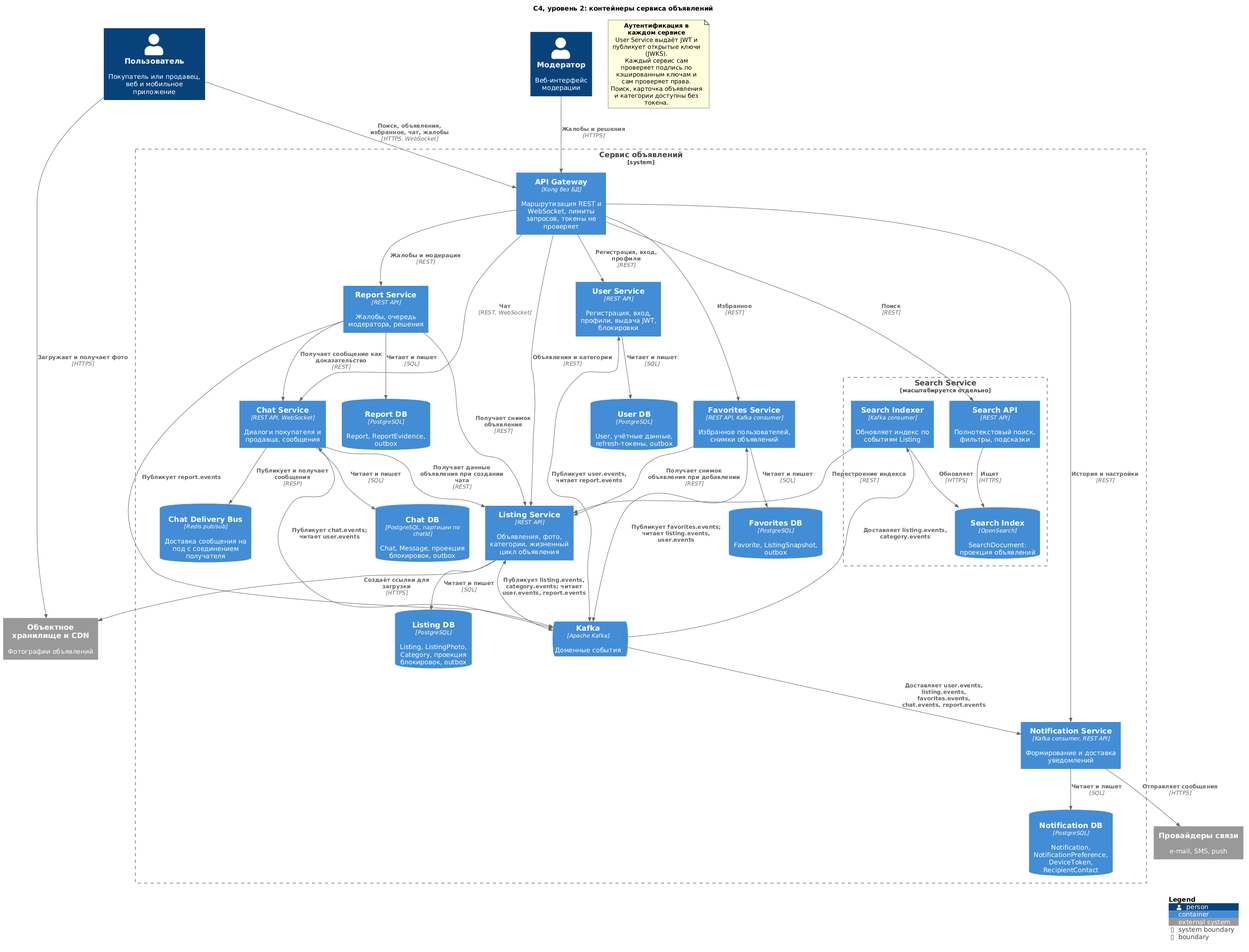
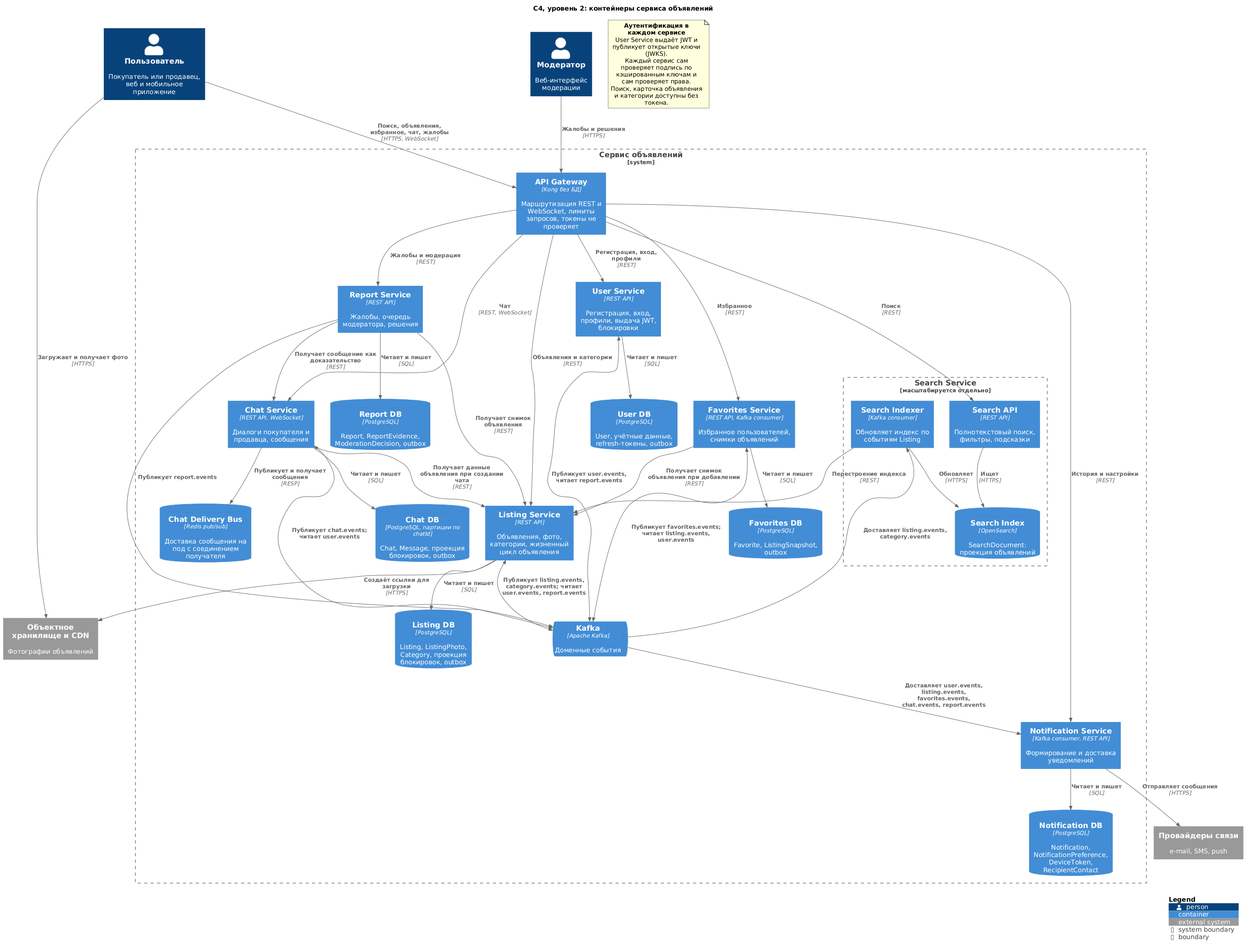
Обновлены документы и диаграммы

Changed region(s): [[0.1551, 0.3099, 0.3722, 0.4959], [0.2171, 0.4959, 0.2482, 0.5269]]

diff --git a/MA_1_lab/README.md b/MA_1_lab/README.md
@@ -13,6 +13,12 @@
 
 Сборка картинок: `plantuml -charset UTF-8 -tpng diagrams/*.puml`
 
+![C4, системный контекст](diagrams/c4-context.png)
+
+![C4, контейнеры](diagrams/c4-container.png)
+
+![C4, развёртывание](diagrams/c4-deployment.png)
+
 ## 1. Исходные данные и допущения
 
 Из задания: 5 млн, 5 000 RPS, 3 команды разработки. Ограничения: явное владение данными, независимое развёртывание, изоляция отказов, отдельное масштабирование поиска.
@@ -32,7 +38,8 @@
 | Операция | Сервис | RPS | Основание |
 |---|---|---:|---|
 | Поиск и выдача по категориям | Search | 2 500 | основной сценарий: лента, фильтры, текстовый поиск |
-| Карточка объявления, категории, свои объявления | Listing | 1 200 | около 30 RPS из них запись |
+| Карточка объявления и категории (публичные) | Listing | 1 000 | без токена, кэш на CDN |
+| Свои объявления и запись (создание, публикация, правки, ссылки на фото) | Listing | 200 | запись около 135 RPS, из них около 95 ссылки на фото (12 объявлений/с × 8 фото) |
 | Отправка сообщений и история | Chat | 500 | доставка по WebSocket в RPS не входит |
 | Избранное | Favorites | 300 | отметки в выдаче, список избранного |
 | Вход, обновление токенов, профили | User | 250 | |
@@ -40,14 +47,16 @@
 | Жалобы и очередь модератора | Report | 50 | |
 | **Итого** | | **5 000** | |
 
-Главный вывод: поиск даёт около 50 % запросов, а вместе с чтением карточек около 74 %. Это чтение каталога, которое не требует токена и не зависит от остальных сервисов, поэтому поиск нужно масштабировать и изолировать отдельно.
+Проверка правдоподобия: 5 000 RPS в пик при отношении пика к среднему 10 дают в среднем 500 RPS, то есть 43 млн запросов в сутки. На 500 тыс. активных пользователей это около 86 запросов на пользователя в день (поиск около 43, карточки около 20, чат около 9, избранное около 5, вход и профили около 4, уведомления около 3,5, жалобы меньше 1).
+
+Главный вывод: поиск даёт около 50 % запросов, а вместе с публичным чтением карточек около 70 %. Это чтение каталога, которое не требует токена и не зависит от остальных сервисов, поэтому поиск нужно масштабировать и изолировать отдельно.
 
 Объём данных:
 
 - **Фотографии:** 3 млн × 8 × 300 КБ ≈ 7 ТБ в объектном хранилище, раздаются через CDN. Это самый большой объём в системе.
-- **Поисковый индекс:** 3 млн × 3 КБ ≈ 10 ГБ, с репликами несколько десятков ГБ. Индекс небольшой, поэтому узкое место поиска — RPS, а не объём.
-- **Сообщения:** 3 млн × 300 Б ≈ 1 ГБ в сутки, около 330 ГБ в год.
-- **Уведомления:** около 1,5 млн в сутки, история хранится 90 дней.
+- **Поисковый индекс:** 3 млн × 3 КБ ≈ 10 ГБ, около 10 ГБ на реплику, при 10 репликах около 100 ГБ суммарно. Индекс небольшой, поэтому узкое место поиска — RPS, а не объём.
+- **Сообщения:** 3 млн × 300 Б ≈ 0,9 ГБ в сутки, около 330 ГБ в год сырых данных. С индексами (примерно ×2) и тремя копиями (лидер и 2 реплики) это около 2 ТБ на диске в год.
+- **Уведомления:** около 1,5 млн в сутки (около 17 в секунду в среднем), история хранится 90 дней. Состав (допущение): 0,9 млн push по сообщениям офлайн-получателям (30 % от 3 млн), 0,1 млн об истечении объявлений, 0,3 млн об изменении цены и статуса избранного, 0,2 млн прочие (жалобы, блокировки, регистрации).
 
 ## 2. Bounded contexts
 
@@ -71,6 +80,8 @@
 ![Context Map](diagrams/context-map.png)
 
 Исходник: [diagrams/context-map.puml](diagrams/context-map.puml).
+
+Стрелки на диаграмме идут от upstream к downstream. Сплошная стрелка — синхронный REST (данные запрашивает downstream), пунктирная — событие Kafka.
 
 | Upstream | Downstream | Паттерн | Механизм | Назначение |
 |---|---|---|---|---|
@@ -108,7 +119,7 @@
 
 - User Service выдаёт JWT: access-токен на 15 минут и refresh-токен. Открытые ключи публикуются по JWKS.
 - Сервис проверяет подпись по ключам, которые кэширует у себя. К User Service на каждый запрос он не обращается, поэтому его сбой не останавливает пользователей с действующим токеном.
-- Поиск, карточка объявления и категории доступны без токена. Это около 74 % трафика, и для них User Service вообще не нужен.
+- Поиск, карточка объявления и категории доступны без токена. Это около 70 % трафика, и для них User Service вообще не нужен.
 - Права проверяет сам сервис: продавец меняет только свои объявления, участник видит только свои диалоги, очередь жалоб доступна только роли MODERATOR.
 - Внутренние REST-вызовы идут с токеном вызывающего сервиса, внутренняя сеть доверенной не считается.
 
@@ -185,14 +196,14 @@
 | Изоляция отказов | синхронные зависимости только в трёх редких сценариях и с деградацией, остальное через Kafka; см. таблицу отказов |
 | Отдельное масштабирование поиска | Search выделен в сервис с отдельным пулом узлов, тремя независимо масштабируемыми частями и своим хранилищем (раздел 8) |
 | 3 команды | 2, 3 и 2 сервиса на команду, Search и Listing у одной команды |
-| 5 000 RPS | около 74 % трафика — чтение каталога, масштабируется репликами индекса и кэшем, запись редка, нагрузка чата распределена по партициям |
+| 5 000 RPS | около 70 % трафика — чтение каталога, масштабируется репликами индекса и кэшем, запись редка, нагрузка чата распределена по партициям |
 
 ## 7. Альтернативы
 
 Подробное сравнение приведено в [ADR-001](ADR-001-decomposition.md).
 
 - **Сервис на сущность (8–9 сервисов).** Отклонена: Chat и Message нельзя разделить без потери атомарности, Category добавляет вызов в каждую публикацию, цепочки синхронных вызовов снижают доступность, а на три команды приходится по три сильно связанных сервиса.
-- **Модульный монолит и отдельный Search.** Отклонена: остальные части масштабируются только вместе, сбой любого модуля затрагивает всё, кроме поиска, у двух команд из трёх общий релиз. Это самый дешёвый вариант и разумный промежуточный этап миграции.
+- **Модульный монолит и отдельный Search.** Отклонена: остальные части масштабируются только вместе, сбой любого модуля затрагивает всё, кроме поиска, у всех трёх команд общий релиз монолита. Это самый дешёвый вариант и разумный промежуточный этап миграции.
 
 ## 8. Независимое развёртывание и масштабирование
 
@@ -217,13 +228,13 @@
 | Notification | отставание consumer group | |
 | Report | минимум | нагрузка низкая |
 
-Для OpenSearch принято допущение, что одна реплика индекса выдерживает около 500 RPS на типовых запросах. Для пика 2 500 RPS с запасом вдвое получается около 10 реплик. Число уточняется нагрузочным тестом.
+Для OpenSearch принято допущение, что одна реплика индекса выдерживает около 500 RPS на типовых запросах. Для пика 2 500 RPS с запасом вдвое получается около 10 реплик. Запас рассчитан на потерю зоны: 10 реплик по трём зонам дают 3–4 на зону, при отказе зоны остаётся 6 реплик, то есть около 3 000 RPS, что не меньше пика. Число уточняется нагрузочным тестом.
 
 Search Service можно развернуть, обновить и масштабировать, не трогая остальные сервисы: он общается с ними только через Kafka. При полной потере индекса он перестраивается из выгрузки `GET /internal/listings/export` в новый индекс с переключением алиаса, поиск при этом работает по старому.
 
 ## 9. Размещение и мониторинг
 
-Система работает в одном кластере Kubernetes с узлами в трёх зонах доступности одного региона. Минимум 2 пода каждого развёртывания, поды разнесены по зонам, поэтому отказ узла или зоны не прерывает работу. Search вынесен в отдельный пул узлов, чтобы поиск не отнимал ресурсы у остальных сервисов.
+Система работает в одном кластере Kubernetes с узлами в трёх зонах доступности одного региона. Минимум 2 пода каждого развёртывания, для Search API и шлюза минимум 3, по одному в каждой зоне (`topologySpreadConstraints`). Поды разнесены по зонам, поэтому отказ узла или зоны не прерывает работу: при потере зоны остаётся не менее двух третей подов у сервисов с тремя и более подами и хотя бы один под у остальных. Search вынесен в отдельный пул узлов, чтобы поиск не отнимал ресурсы у остальных сервисов.
 
 | Компонент | Копии | Репликация | Отказ одной зоны |
 |---|---|---|---|

diff --git a/MA_1_lab/ADR-001-decomposition.md b/MA_1_lab/ADR-001-decomposition.md
@@ -22,13 +22,13 @@
 
 Восемь сервисов по списку сущностей: User, Listing, Category, Favorite, Chat, Message, Report, Notification (поиск как девятый, если считать его отдельно).
 
-Границы очевидны. Но Chat и Message нельзя разделить без распределённой транзакции: каждое сообщение требует проверки диалога и участников. Category нужна при каждой публикации и редактировании объявления для проверки атрибутов, то есть появляется постоянный синхронный вызов Listing → Category. Цепочка из трёх сервисов с доступностью 99,9 % даёт 0,999³ ≈ 99,7 %, то есть около 26 часов простоя в год вместо 9. Восемь-девять сервисов на три команды означают по три сильно связанных сервиса на команду.
+Границы очевидны. Но Chat и Message нельзя разделить без распределённой транзакции: каждое сообщение требует проверки диалога и участников. Category нужна при каждой публикации и редактировании объявления для проверки атрибутов, то есть появляется постоянный синхронный вызов Listing → Category. Два последовательных звена с доступностью 99,9 % дают 0,999² ≈ 99,8 %, то есть около 17,5 часа простоя в год вместо 8,8 (расчёт в [README, раздел 1](README.md#1-исходные-данные-и-допущения)). Восемь-девять сервисов на три команды означают по три сильно связанных сервиса на команду.
 
 ### Альтернатива B. Модульный монолит и отдельный Search
 
 Две единицы развёртывания: монолит с модулями User, Listing, Favorites, Chat, Report, Notification и отдельный Search.
 
-Самый дешёвый вариант в эксплуатации. Сохраняются ACID-транзакции, нет саг, выполняется главное требование про отдельное масштабирование поиска. Но WebSocket-нагрузка чата и публикация объявлений масштабируются только вместе, сбой любого модуля затрагивает всё остальное, три команды остаются в общем релизе, а владение данными держится на соглашениях внутри одной БД. Требование про независимое развёртывание выполняется только для поиска.
+Самый дешёвый вариант в эксплуатации. Сохраняются ACID-транзакции, нет саг, выполняется главное требование про отдельное масштабирование поиска. Но WebSocket-нагрузка чата и публикация объявлений масштабируются только вместе, сбой любого модуля затрагивает всё остальное, все три команды выпускают свои модули одним релизом монолита, а владение данными держится на соглашениях внутри одной БД. Требование про независимое развёртывание выполняется только для поиска.
 
 ### Альтернатива C. Семь сервисов по bounded contexts (выбрана)
 
@@ -42,7 +42,7 @@ User, Listing (с Category), Search, Favorites, Chat (с Message), Report, Notif
 | Независимое развёртывание | да | только Search | да |
 | Изоляция отказов | длинные синхронные цепочки снижают доступность | один домен отказа на шесть модулей | сбой Chat, Favorites, Report, Notification не затрагивает публикацию и поиск |
 | Владение данными | формальное, инварианты разорваны (Chat и Message, Listing и Category) | по соглашению, общая БД | явное, БД у каждого сервиса |
-| Работа трёх команд | 8–9 сервисов, сильная связанность | общий релиз у двух команд из трёх | 7 сервисов: 2, 3 и 2 на команду |
+| Работа трёх команд | 8–9 сервисов, сильная связанность | общий релиз монолита у всех трёх команд | 7 сервисов: 2, 3 и 2 на команду |
 | Сложность эксплуатации | самая высокая | самая низкая | высокая |
 | Согласованность данных | саги внутри одной операции | ACID внутри монолита | ACID внутри агрегата, итоговая согласованность между контекстами |
 
@@ -67,7 +67,7 @@ User, Listing (с Category), Search, Favorites, Chat (с Message), Report, Notif
 
 1. **Выполняется требование про отдельное масштабирование поиска.** У Search своя БД, свой пул узлов и своя метрика масштабирования. Нагрузка на поиск не отнимает ресурсы у публикации и чата.
 2. **Границы совпадают с транзакционными инвариантами.** Публикация объявления с категорией, отправка сообщения в диалог, добавление в избранное остаются внутри одного сервиса и одной БД. Альтернатива A этого не обеспечивает.
-3. **Отказ одного компонента не останавливает систему.** Около 74 % трафика (поиск и чтение объявлений) вообще не зависит от User, Chat, Favorites, Report и Notification. Сбой Search оставляет карточки, чат и избранное, а сбой Listing оставляет поиск по существующему индексу (см. таблицу отказов в [отчёте](README.md#5-основные-взаимодействия)). В альтернативе B этого нет.
+3. **Отказ одного компонента не останавливает систему.** Около 70 % трафика (поиск и публичное чтение объявлений) вообще не зависит от User, Chat, Favorites, Report и Notification. Сбой Search оставляет карточки, чат и избранное, а сбой Listing оставляет поиск по существующему индексу (см. таблицу отказов в [отчёте](README.md#5-основные-взаимодействия)). В альтернативе B этого нет.
 4. **Число сервисов соответствует числу команд.** Два, три и два сервиса на команду. Самый нагруженный Search вместе со своим источником данных Listing у одной команды, поэтому изменение формата индекса не требует межкомандной координации.
 5. **Модерация и пользователи отделены от основного потока.** Report и User работают с чувствительными данными и отдельными ролями, их сбой не останавливает публикацию.
 
